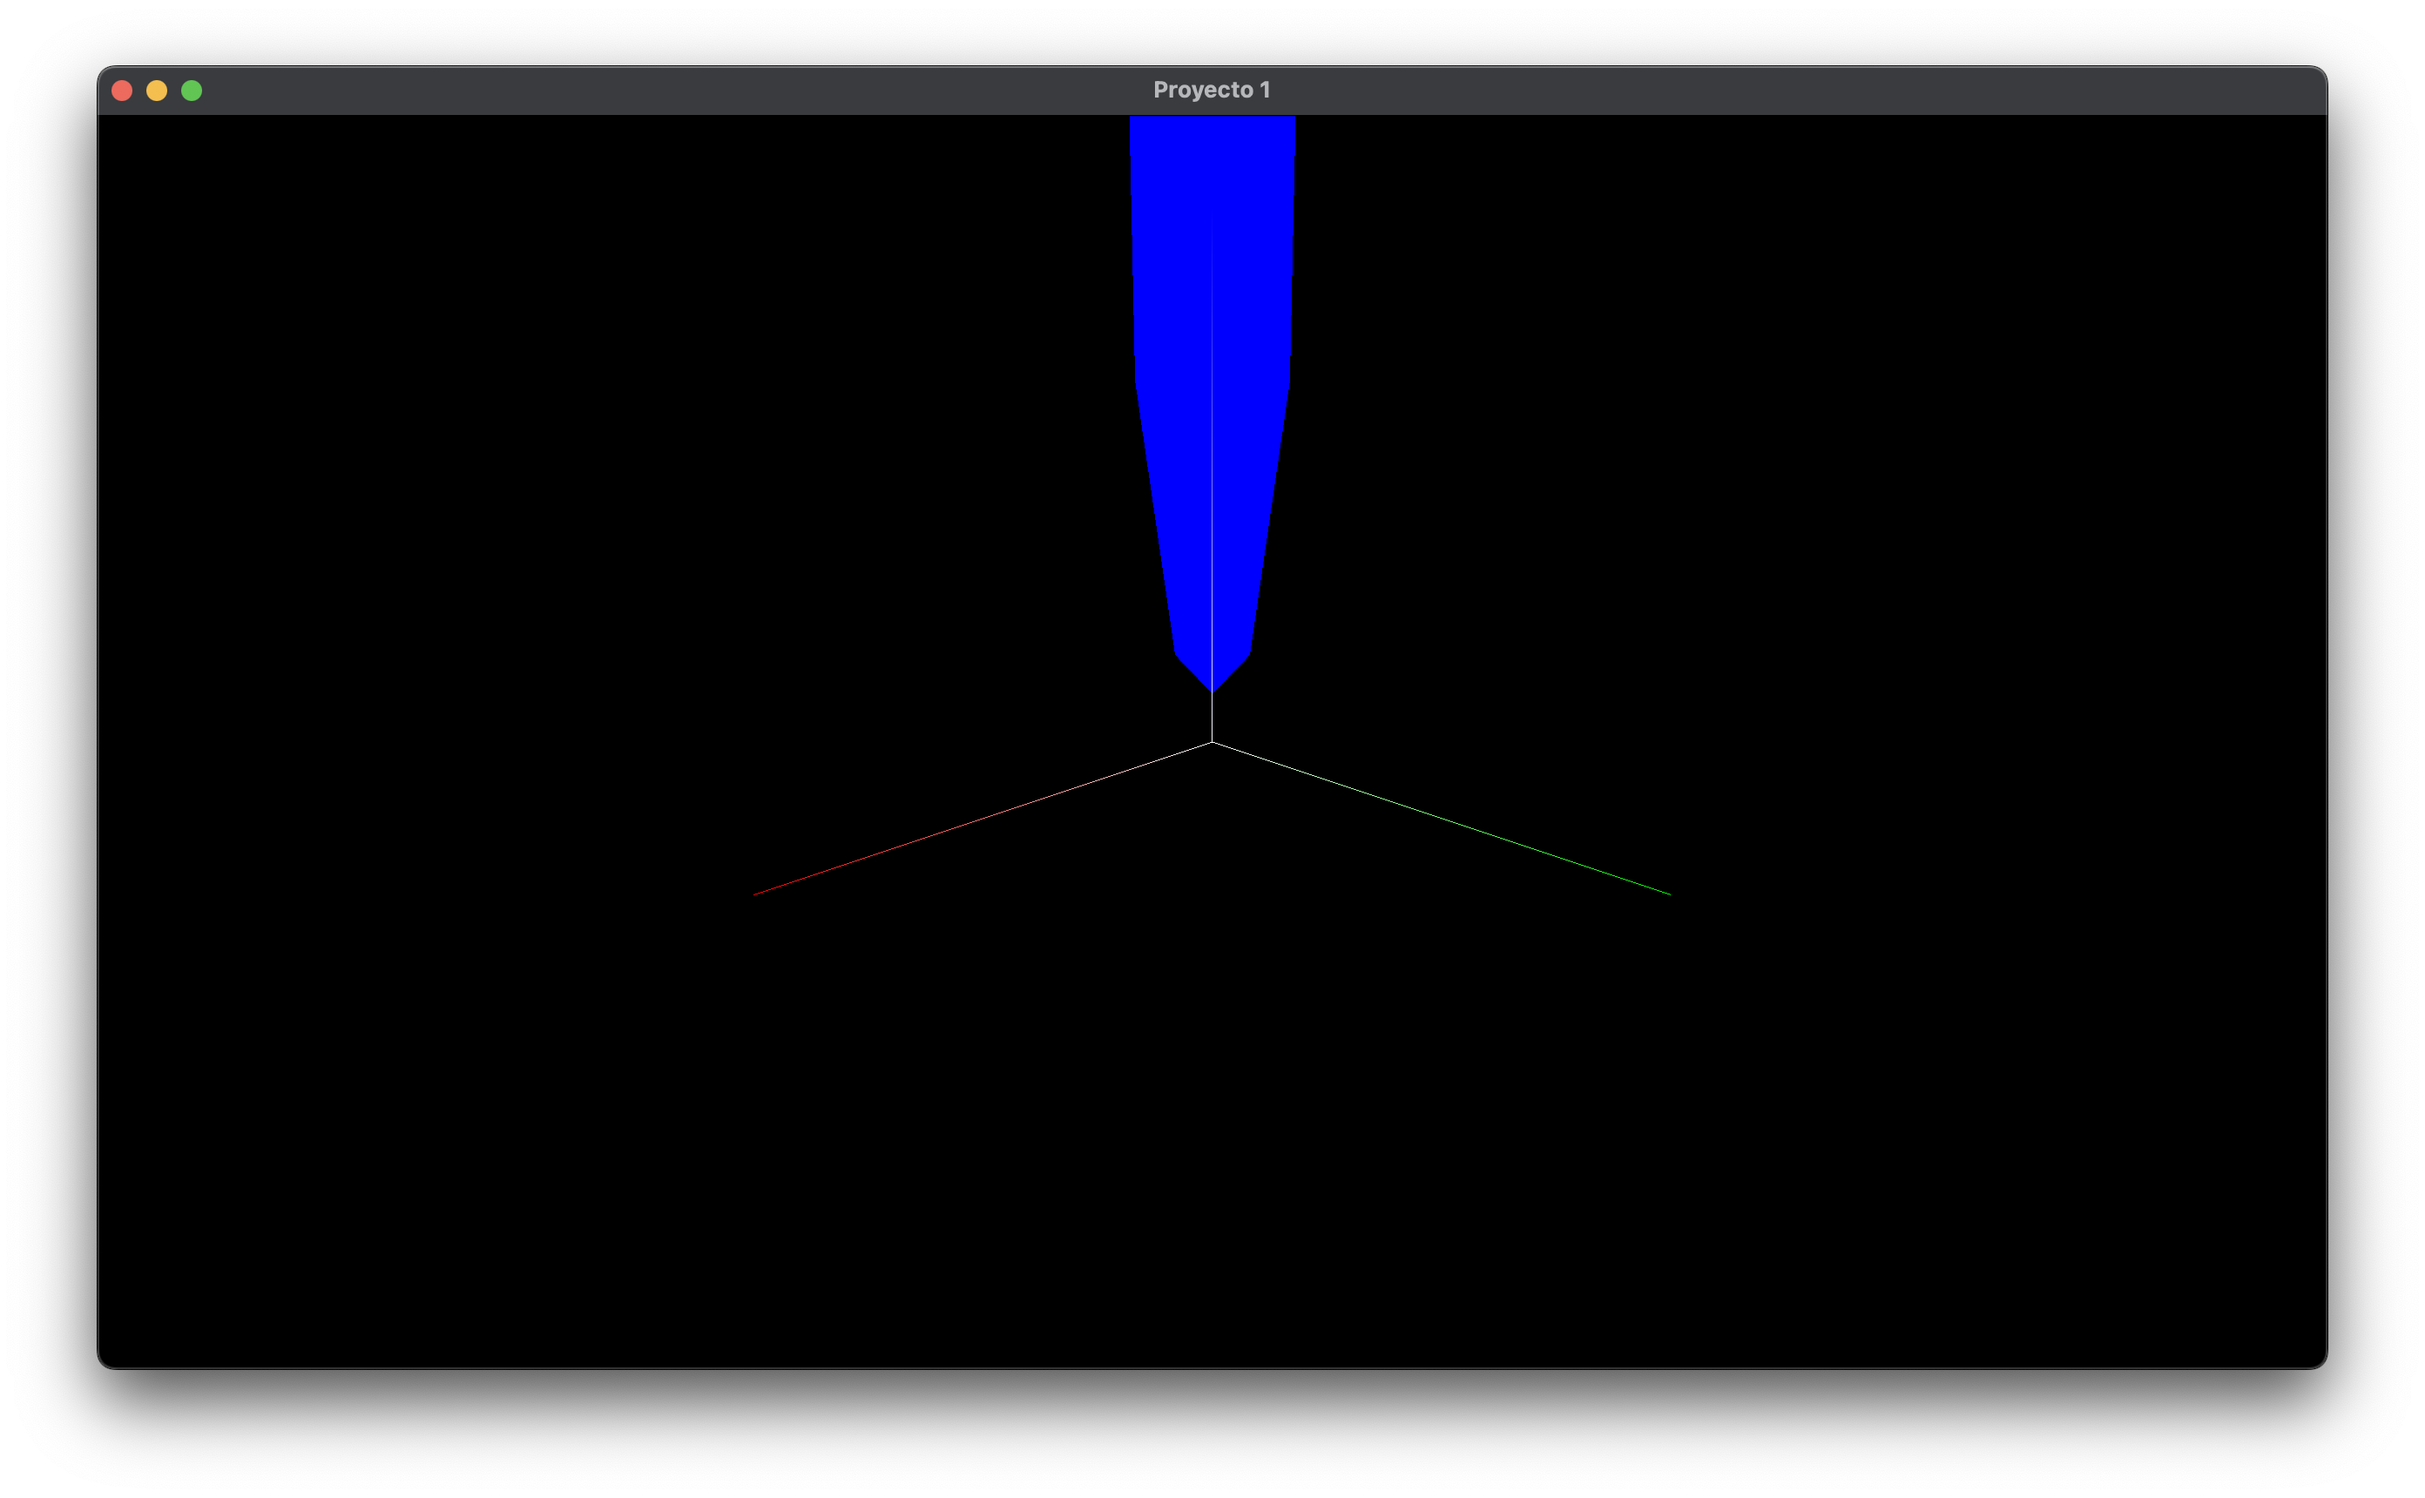
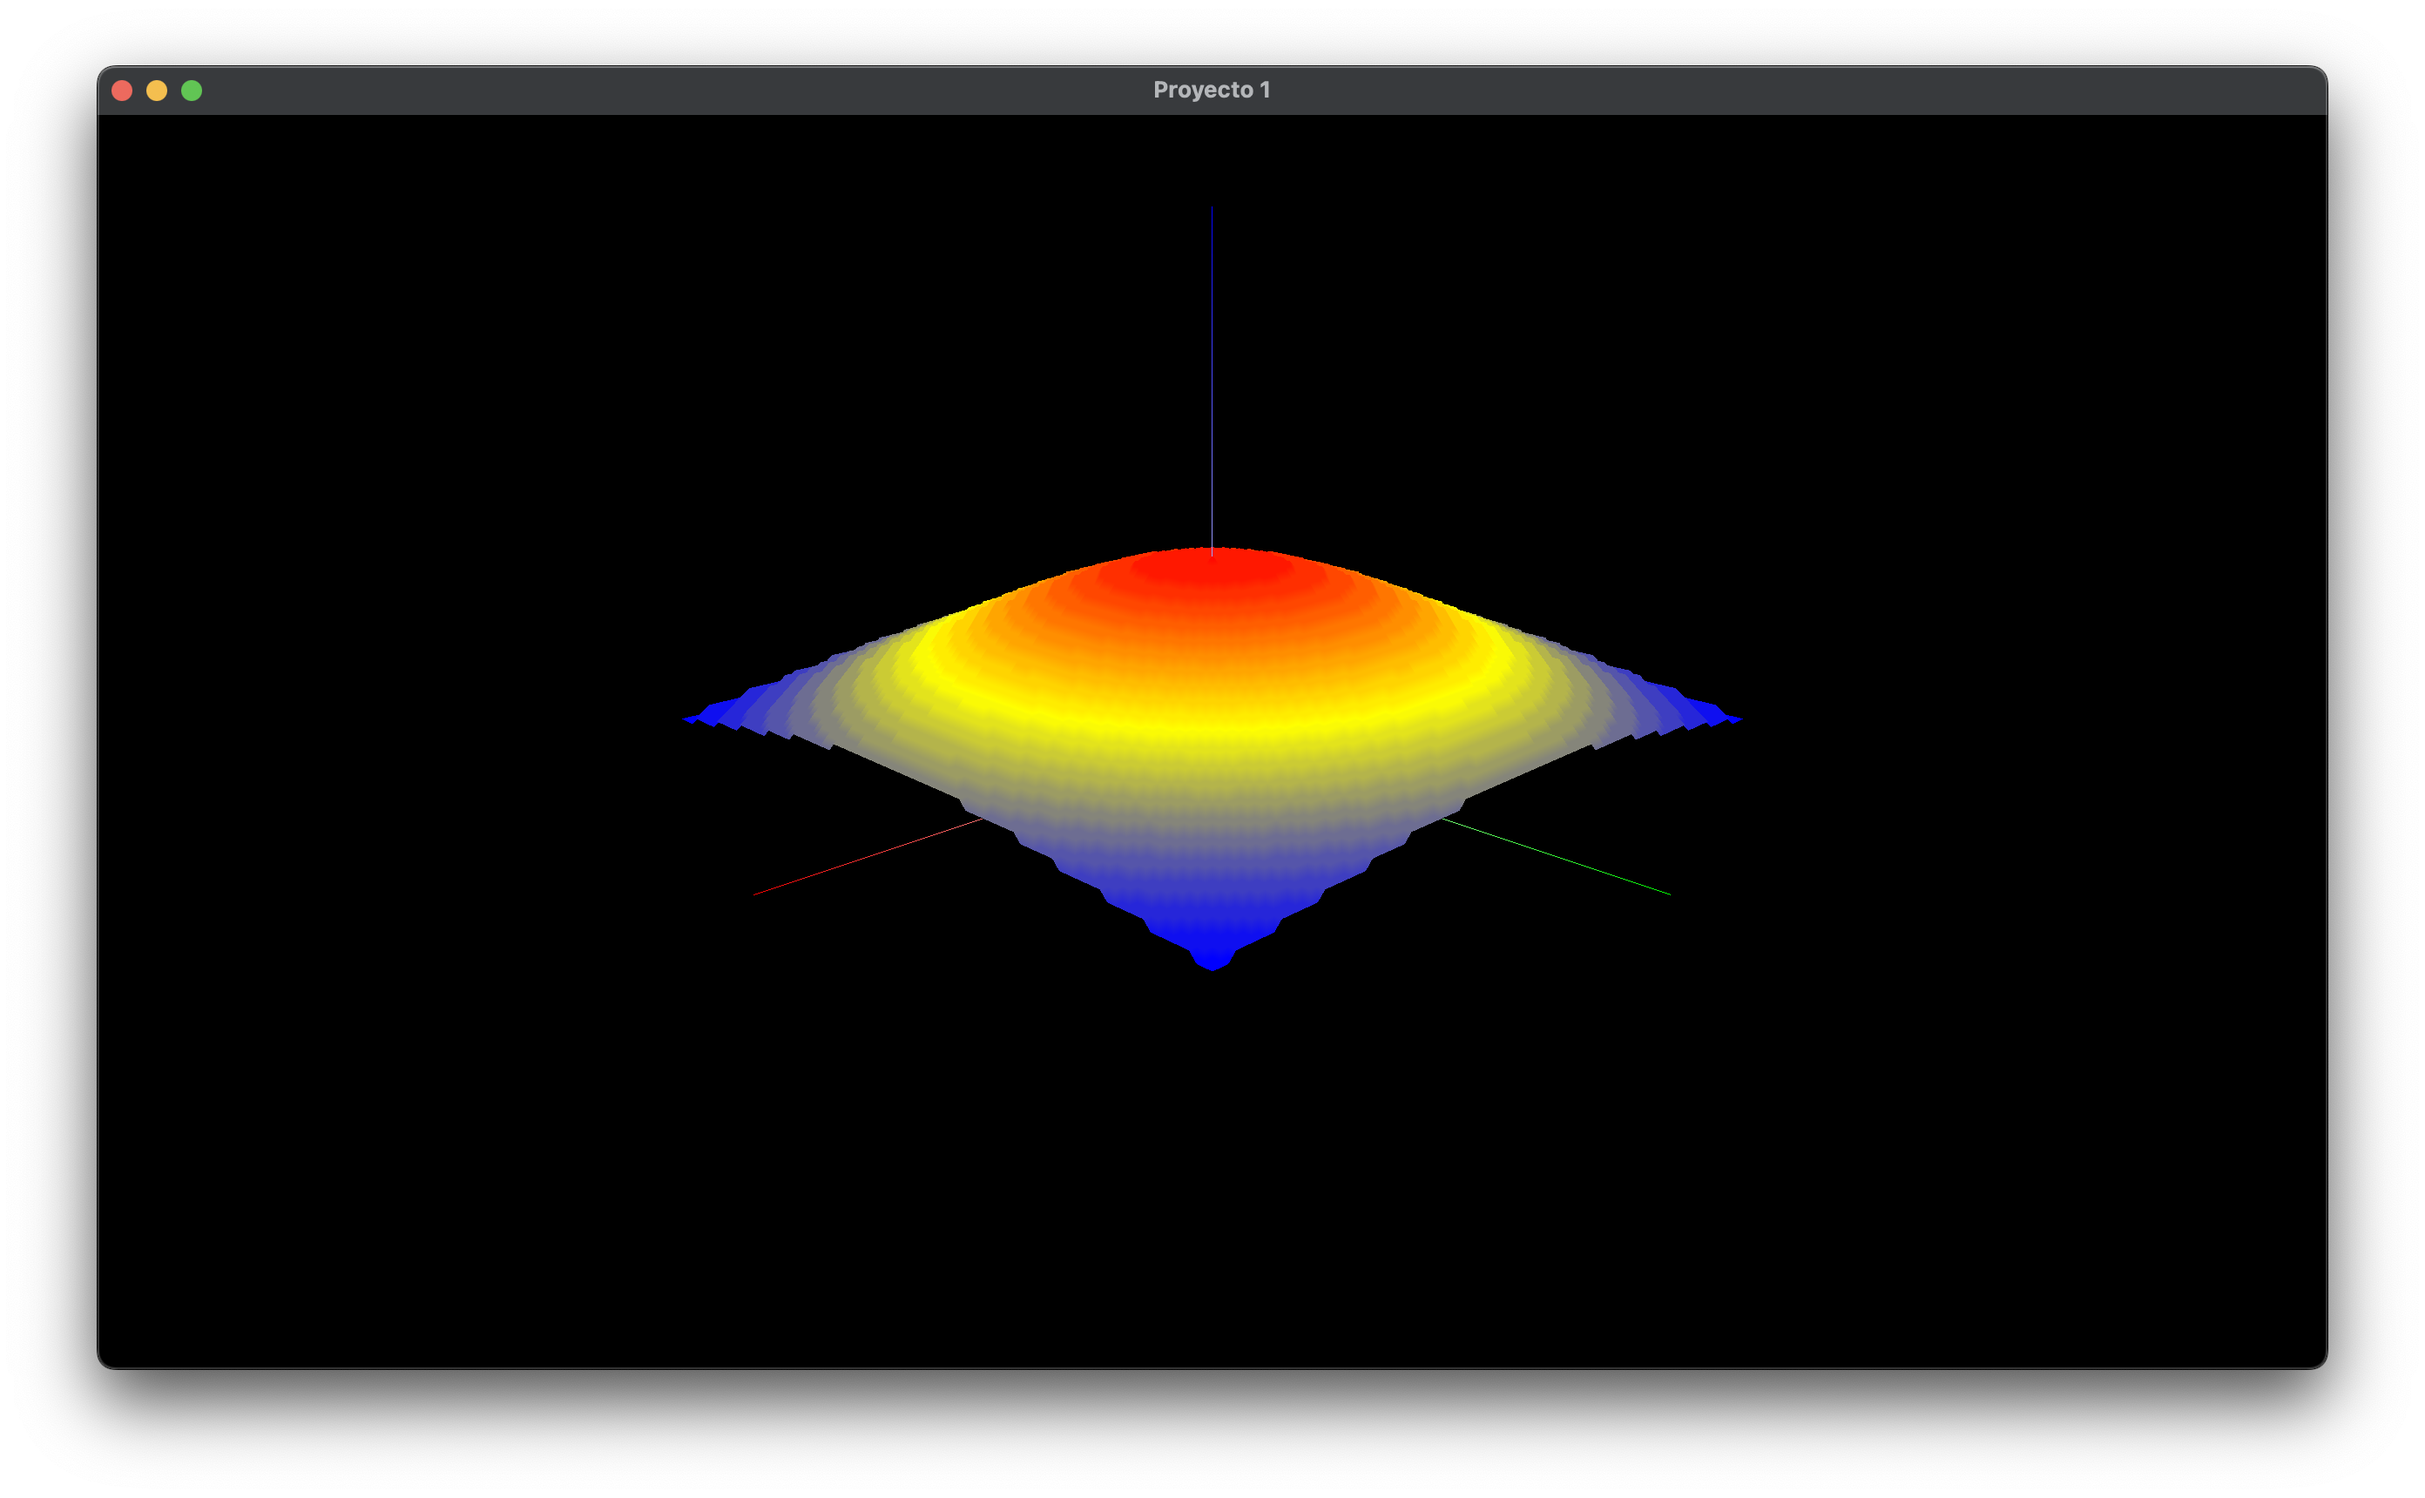
Fixed second function

Changed region(s): [[0.2812, 0.0616, 0.7188, 0.6471]]

diff --git a/Proyecto1/src/models/Grid.cpp b/Proyecto1/src/models/Grid.cpp
@@ -20,20 +20,26 @@ void Grid::Vertex::InitVertex(int x, int y, int z){
  void Grid::InitVertices(std::vector<Vertex>& Vertices) {
      int Index{0};
 
-     // Escala base: el radio controla tanto el ancho como la altura de la montañ
+     // Se inician los valores máximos
      m_min = std::numeric_limits<float>::max();
      m_max = std::numeric_limits<float>::min();
-     for (int z = -m_depth / 2; z < m_depth / 2; z++) {
-         for (int x = -m_width / 2; x < m_width / 2; x++) {
-             
-             // Función de altura (Gaussiana, más suave que una parábola)
-            float y = m_f->f(x,z);
+     for (int z = -m_depth / 2; z < m_depth /2; z++) {
+         for (int x = -m_width /2; x < m_width /2; x++) {
+            // Se calculan las coordenadas escalads
+            float new_x = x/m_scale;
+            float new_z = z/m_scale;
+            // El valor de la función
+            float y = m_f->f(new_x,new_z);
+            // Se escala el valor de y
+            if (m_scale >2.0f)
+                y = y*(m_scale/2);
             if (y>m_max)
                 m_max=y;
             if (y<m_min)
                 m_min = y;
-             Vertices[Index].InitVertex(x, y, z);
-             Index++;
+            //std::cout << "x: "<<new_x <<" y: "<<y<< " z: "<< new_z<<"\n";
+            Vertices[Index].InitVertex(x, y,z);
+            Index++;
          }
      }
 
@@ -93,7 +99,7 @@ void Grid::initGeometry(){
     // La escala se precalcula para calcularla en el update 
     m_model_mat = glm::mat4(1.0f);
     m_model_mat = glm::translate(m_model_mat, glm::vec3(0.0f));
-    m_model_mat = glm::scale(m_model_mat, glm::vec3(0.1f)); // SOLO una vez
+    m_model_mat = glm::scale(m_model_mat, glm::vec3(m_model_scale)); // SOLO una vez
 }
 
 void Grid::init(){
@@ -160,8 +166,17 @@ void Grid::printInfo(){
     if (m_printed)
         return;
     m_f->print();
-    std::cout << "Su dominio es: "<< m_width << "X" << m_depth << "\n";
-    std::cout << "El mínimo es: " << m_min <<"\n";
-    std::cout << "El máximo es: " << m_max <<"\n";
-    std::cout << "La función está escalada 1:10\n";
+    std::cout << "Su dominio es: [" << -m_width/(2*m_scale) <<"," << m_width/(2*m_scale) << "] X [" << -m_depth/(2*m_scale) << "," << m_depth/(2*m_scale)<< "]\n";
+    float min = m_min;
+    float max = m_max;
+    // Se regresa a los mínimos originales
+    if (m_scale>2.0f){
+        min = (2*m_min)/(m_scale);
+        max = (2*m_max)/(m_scale);
+    }
+    std::cout << "El mínimo es: " << min <<"\n";
+    std::cout << "El máximo es: " << max <<"\n";
+    float new_scale = m_scale<2.0f? m_scale:m_scale/2;
+    std::cout << "Las coordenadas x,z están escaladas por: "<< new_scale <<"\n";
+    std::cout << "La coordenada y está escalada por: " << new_scale << "\n";
 }

diff --git a/Proyecto1/src/Scene.cpp b/Proyecto1/src/Scene.cpp
@@ -22,10 +22,10 @@ void Scene::init(){
     Model* model5 = new ImportedModel(m_shaderPrograms[1],"assets/obj/Teapot.obj");
     std::cout << "Cargando función 1\n";
     Function* f = new Trigonometric();
-    Model* model6 = new Grid(m_shaderPrograms[1],100,100,f);
+    Model* model6 = new Grid(m_shaderPrograms[1],100,100,f,1.0f,0.1f);
     Function* g = new Exponential();
     std::cout << "Cargando función 2\n";
-    Model* model7 = new Grid(m_shaderPrograms[1],100,100,g);
+    Model* model7 = new Grid(m_shaderPrograms[1],100,100,g,50.0f,0.015f);
     m_models.push_back(model1);
     m_models.push_back(model2);
     m_models.push_back(model3);
@@ -58,7 +58,7 @@ void Scene::render()  {
         if (glfwGetKey(m_window->getWindow(), GLFW_KEY_ESCAPE) == GLFW_PRESS)
             glfwSetWindowShouldClose(m_window->getWindow(), true);
 
-        // Segun la tecla, se visualiza un modelo u otro
+        // Segun la tecla, se visualiza un modelo u otro y se restablecen sus valores para imprimir
         if (glfwGetKey(m_window->getWindow(), GLFW_KEY_0) == GLFW_PRESS){
             m_model = m_models[0];
             m_model->printInfo();

diff --git a/Proyecto1/include/models/Grid.h b/Proyecto1/include/models/Grid.h
@@ -21,6 +21,15 @@ private:
     Function* m_f;
     float m_min{};
     float m_max{};
+    /**
+     * @brief valor por el cual se va a escalar el modelo de la malla
+     */
+    float m_scale{};
+
+    /**
+     * @brief flotante para calcular la escala de la matriz del modelor
+     */
+    float m_model_scale{};
 
     struct Vertex
     {
@@ -55,11 +64,13 @@ private:
 
 public: 
 
-    Grid(ShaderProgram* program, int width, int depth, Function* f) 
+    Grid(ShaderProgram* program, int width, int depth, Function* f, float scale,float model_scale) 
         : Model(program)
         , m_width{width}
         , m_depth{depth}
         , m_f{f}
+        , m_scale{scale}
+        , m_model_scale{model_scale}
     {
         CreateTriangleList();
     }

diff --git a/Proyecto1/src/Exponential.cpp b/Proyecto1/src/Exponential.cpp
@@ -1,11 +1,11 @@
 #include "Exponential.h"
 #include <iostream>
 
-float Exponential::f(int x, int z){
-    float y = exp((x*x)+(z*z));
+float Exponential::f(float x, float z){
+    float y = exp(-1*((x*x)+(z*z)));
     return y;
 }
 
 void Exponential::print(){
-    std::cout<< "La función es: e^(x^2+z^2)\n";
+    std::cout<< "La función es: e^(-(x^2+z^2))\n";
 }

diff --git a/Proyecto1/include/Function.h b/Proyecto1/include/Function.h
@@ -14,7 +14,7 @@ public:
      * @param z valor en z
      * @returns el valor evaluado
      */
-    virtual float f(int x, int z) = 0;
+    virtual float f(float x, float z) = 0;
 
     /**
      * @brief Función para imprimir f(x)

diff --git a/Proyecto1/src/Trigonometric.cpp b/Proyecto1/src/Trigonometric.cpp
@@ -1,7 +1,7 @@
 #include "Trigonometric.h"
 #include <iostream>
 
-float Trigonometric::f(int x, int z){
+float Trigonometric::f(float x, float z){
     float y = cos(x)+sin(z);
     return y;
 }

diff --git a/Proyecto1/include/Trigonometric.h b/Proyecto1/include/Trigonometric.h
@@ -6,7 +6,7 @@
 class Trigonometric:public Function
 {
 public:
-    float f(int x, int z) override;
+    float f(float x, float z) override;
     
     void print() override;
 };

diff --git a/Proyecto1/include/Exponential.h b/Proyecto1/include/Exponential.h
@@ -6,7 +6,7 @@
 class Exponential:public Function
 {
 public:
-    float f(int x, int z) override;
+    float f(float x, float z) override;
     
     void print() override;
 };

diff --git a/README.md b/README.md
@@ -50,6 +50,6 @@ La primera función es $f(x,z)=cos(x)+sin(z)$. La cual se muestra al pulsar la t
 
 ![alt text](media/funcion1.png)
 
-La segunda función es $g(x,z)=e^{x^2+z^2}$. Se activa al pulsar la tecla G.
+La segunda función es $g(x,z)=e^{-(x^2+z^2)}$. Se activa al pulsar la tecla G.
 
 ![alt text](media/funcion2.png)
